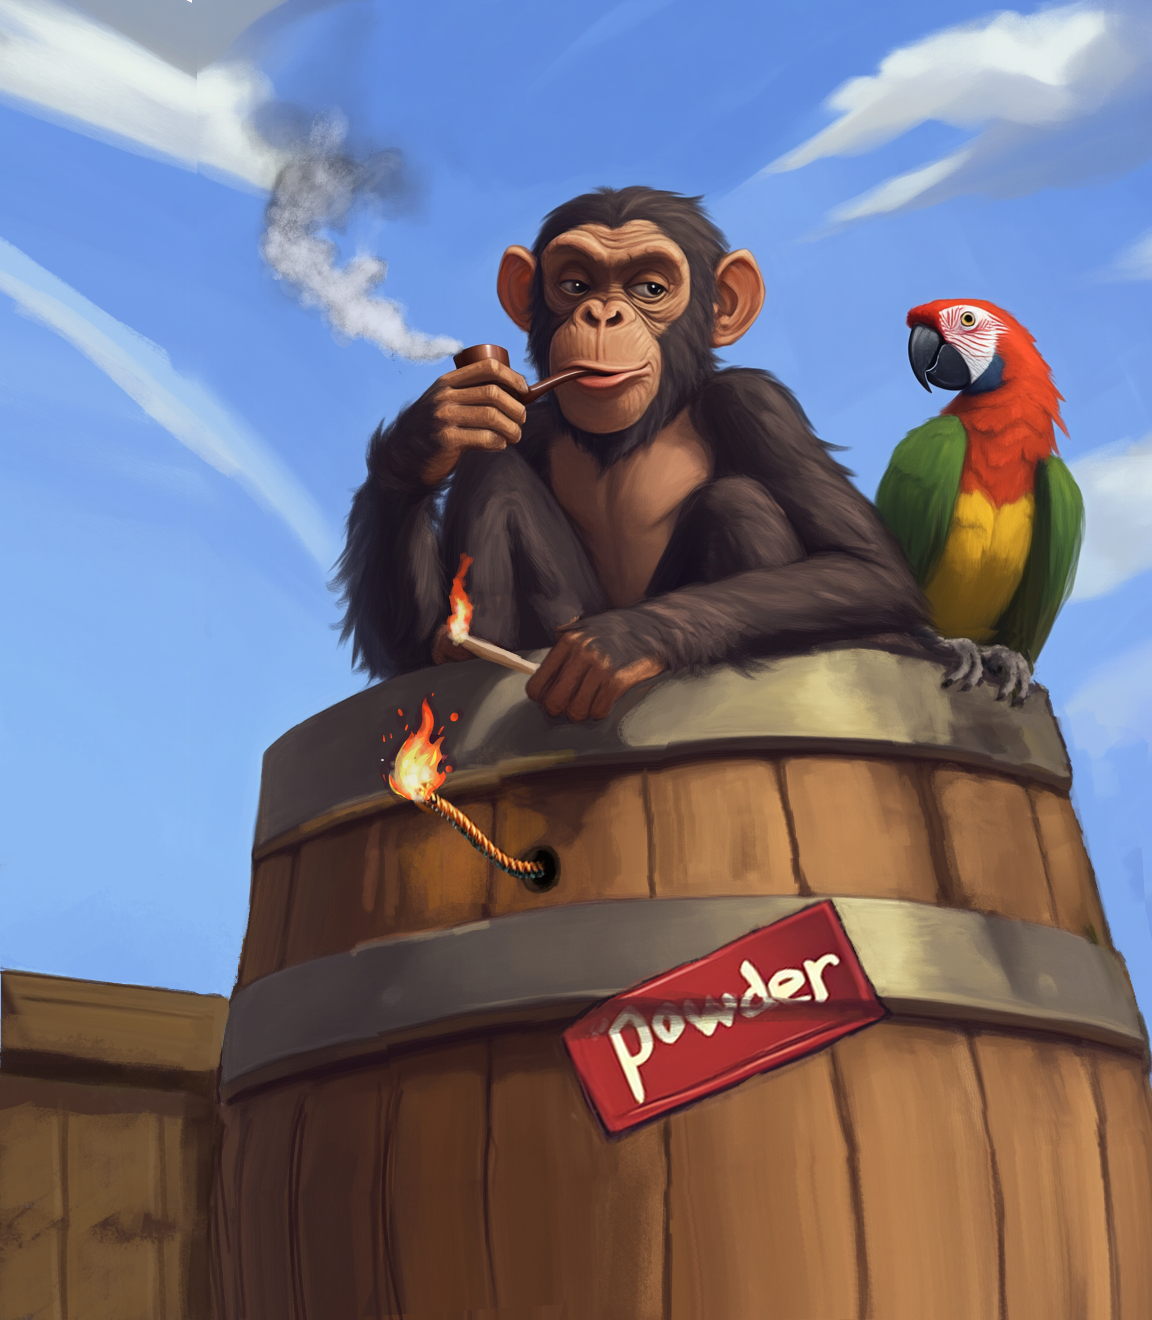
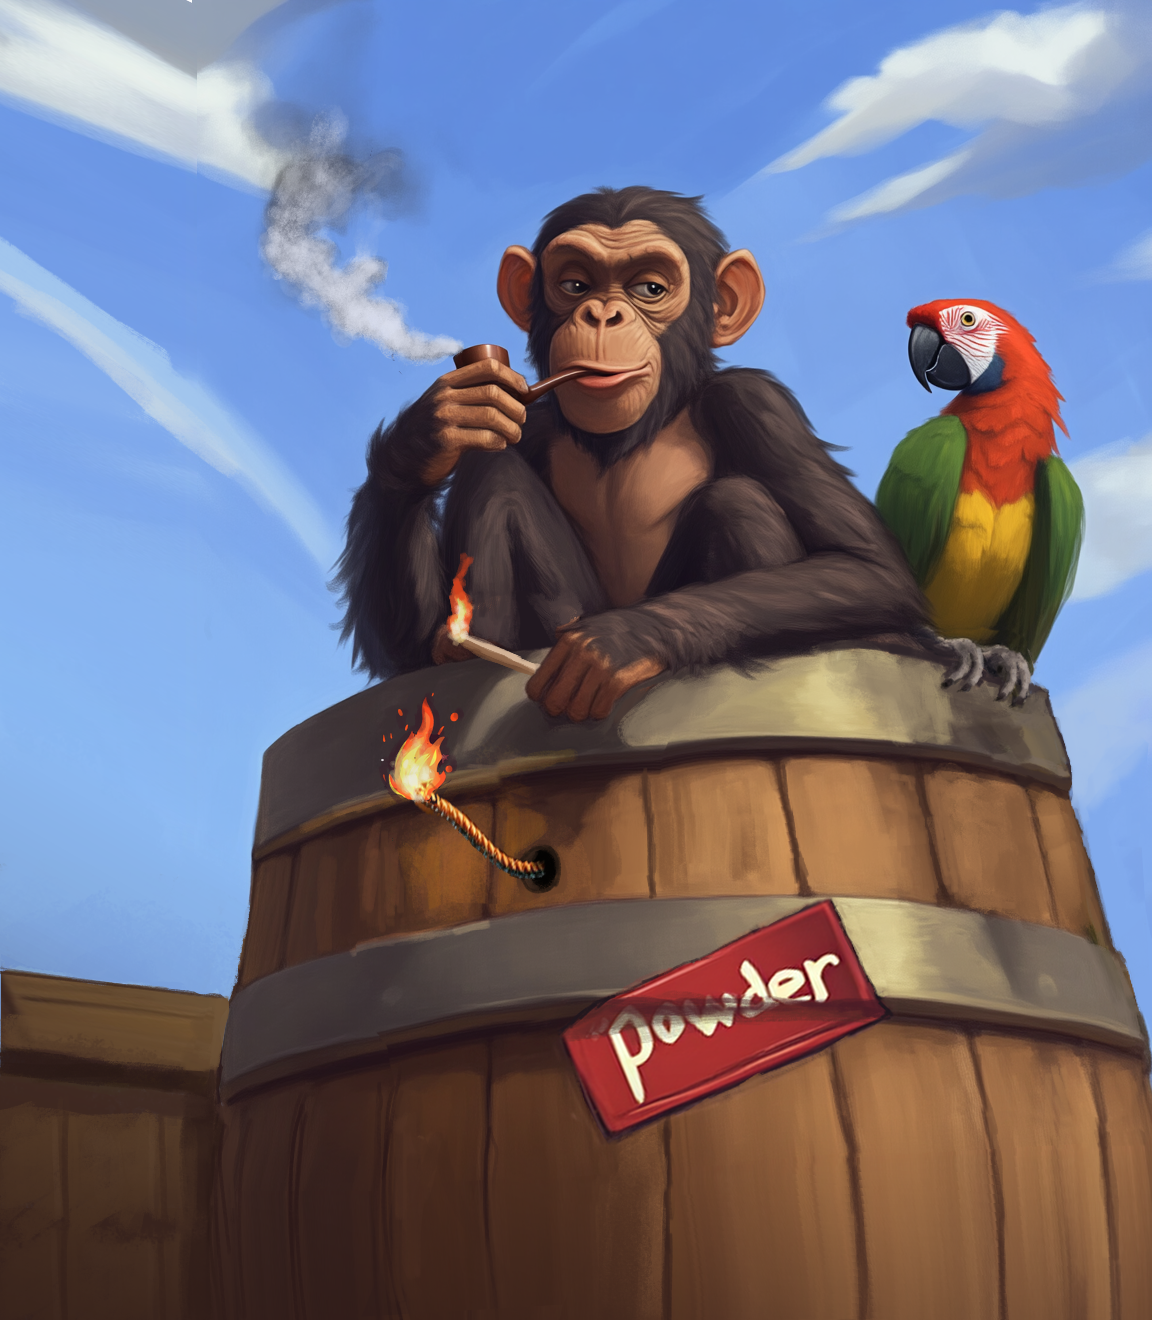
Powder

diff --git a/deckhand2/cards.en.js b/deckhand2/cards.en.js
@@ -709,7 +709,7 @@ var cards = [
         "extra": ['3-choices'],
         // "banners": ['helm-banner'],
         "production": ['h'],
-        "css": "bg-top title-small",
+        "css": "bg-top title-small left-sign",
         "sign": "bb",
     },
 
